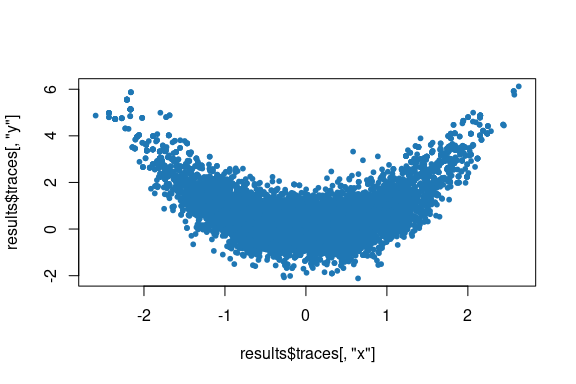
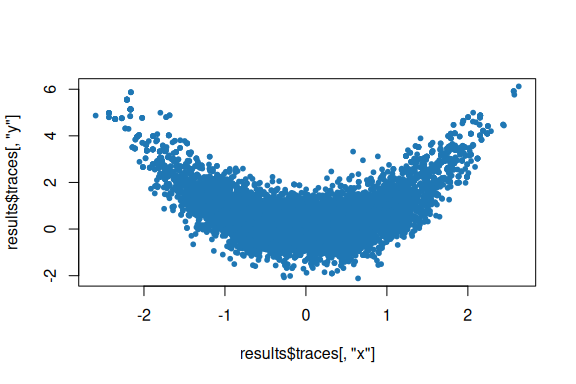
Make package description in metadata and README more generic

diff --git a/README.md b/README.md
@@ -14,10 +14,11 @@
 [![JOSS-status](https://joss.theoj.org/papers/b3d646dcf01299076e8a724ec8d909dc/status.svg)](https://joss.theoj.org/papers/b3d646dcf01299076e8a724ec8d909dc)
 <!-- badges: end -->
 
-`rmcmc` is an R package for simulating Markov chains using the Barker
-proposal to compute *Markov chain Monte Carlo* (MCMC) estimates of
-expectations with respect to a target distribution on a real-valued
-vector space. The Barker proposal, described in [Livingstone and Zanella
+`rmcmc` is an R package for simulating Markov chains using random-walk,
+Langevin, Hamiltonian or Barker proposals, to compute *Markov chain
+Monte Carlo* (MCMC) estimates of expectations with respect to a target
+distribution on a real-valued vector space. The Barker proposal,
+described in [Livingstone and Zanella
 (2022)](https://doi.org/10.1111/rssb.12482), is a gradient-based MCMC
 algorithm inspired by the Barker accept-reject rule. It combines the
 robustness of simpler MCMC schemes, such as random-walk Metropolis, with
@@ -32,15 +33,26 @@ acceptance rule. During an initial warm-up stage, the parameters of the
 proposal distribution can be adapted, with adapters available to both:
 tune the scale of the proposals by coercing the average acceptance rate
 to a target value; tune the shape of the proposals to match covariance
-estimates under the target distribution. As well as the default Barker
-proposal, the package also provides implementations of alternative
-proposal distributions, such as (Gaussian) random walk and Langevin
-proposals. Optionally, if [BridgeStan’s R
-interface](https://roualdes.us/bridgestan/latest/languages/r.html),
-available [on GitHub](https://github.com/roualdes/bridgestan), is
-installed, [then BridgeStan can be used to specify the target
-distribution to sample
-from](https://github-pages.ucl.ac.uk/rmcmc/articles/interfacing-with-stan-models.html).
+estimates under the target distribution.
+
+The package has a modular design allowing different algorithmic
+components such as proposals and adapters to be mixed and matched and to
+allow to it interface with various existing packages:
+
+- If [BridgeStan’s R
+  interface](https://roualdes.us/bridgestan/latest/languages/r.html),
+  available [on GitHub](https://github.com/roualdes/bridgestan), is
+  installed, [then BridgeStan can be used to specify the target
+  distribution to sample
+  from](https://github-pages.ucl.ac.uk/rmcmc/articles/interfacing-with-stan-models.html).
+- The robust adaptive Metropolis algorithm described in [Vihola
+  (2012)](https://doi.org/10.1007/s11222-011-9269-5) can be used for
+  adapting the proposal scale and shape if [the *ramcmc*
+  package](https://cran.r-project.org/web/packages/ramcmc/index.html) is
+  installed.
+- The generated chain output can be directly passed to functions for
+  computing summary statistics and convergence diagnostics in [the
+  *posterior* package](https://mc-stan.org/posterior/).
 
 ## Installation
 
@@ -128,4 +140,4 @@ results <- sample_chain(
 plot(results$traces[, "x"], results$traces[, "y"], col = "#1f77b4", pch = 20)
 ```
 
-<img src="man/figures/README-banana-samples-1.png" width="100%" />
+<img src="man/figures/README-banana-samples-1.png" alt="" width="100%" />